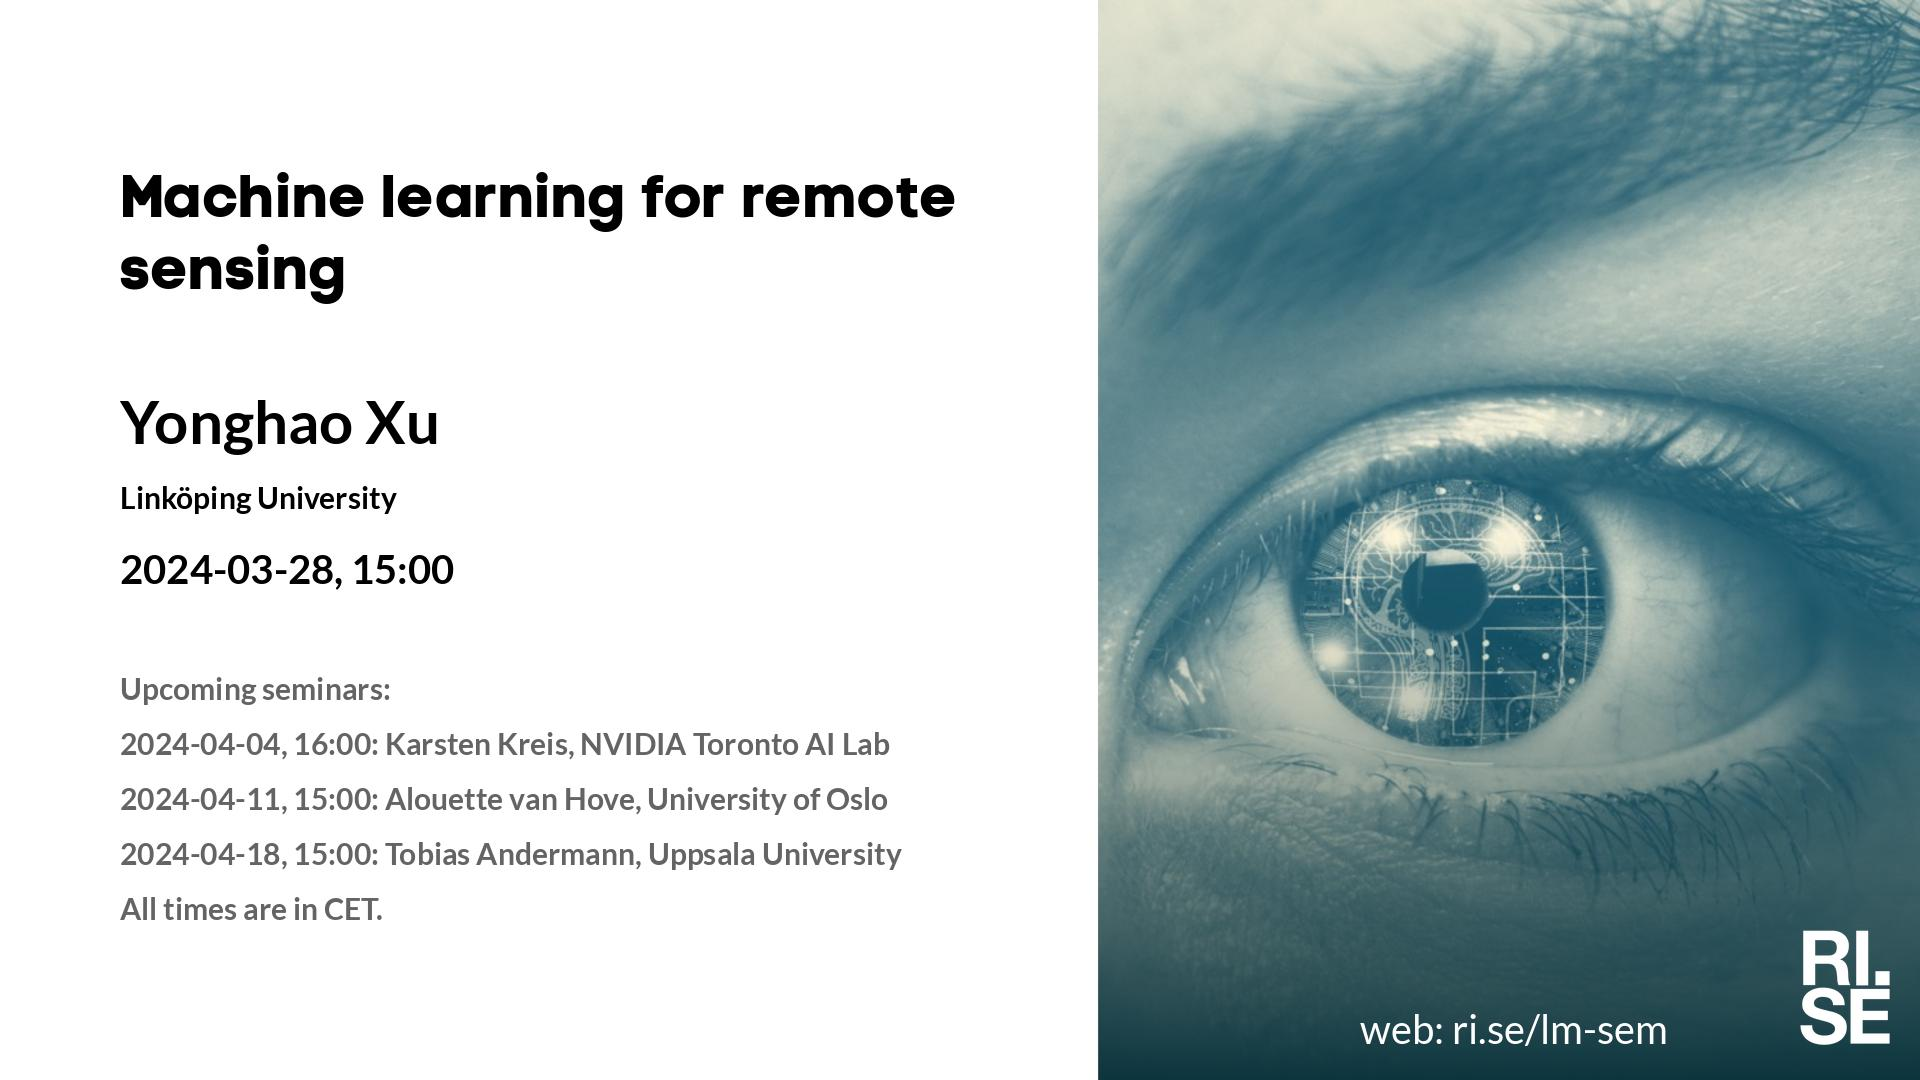
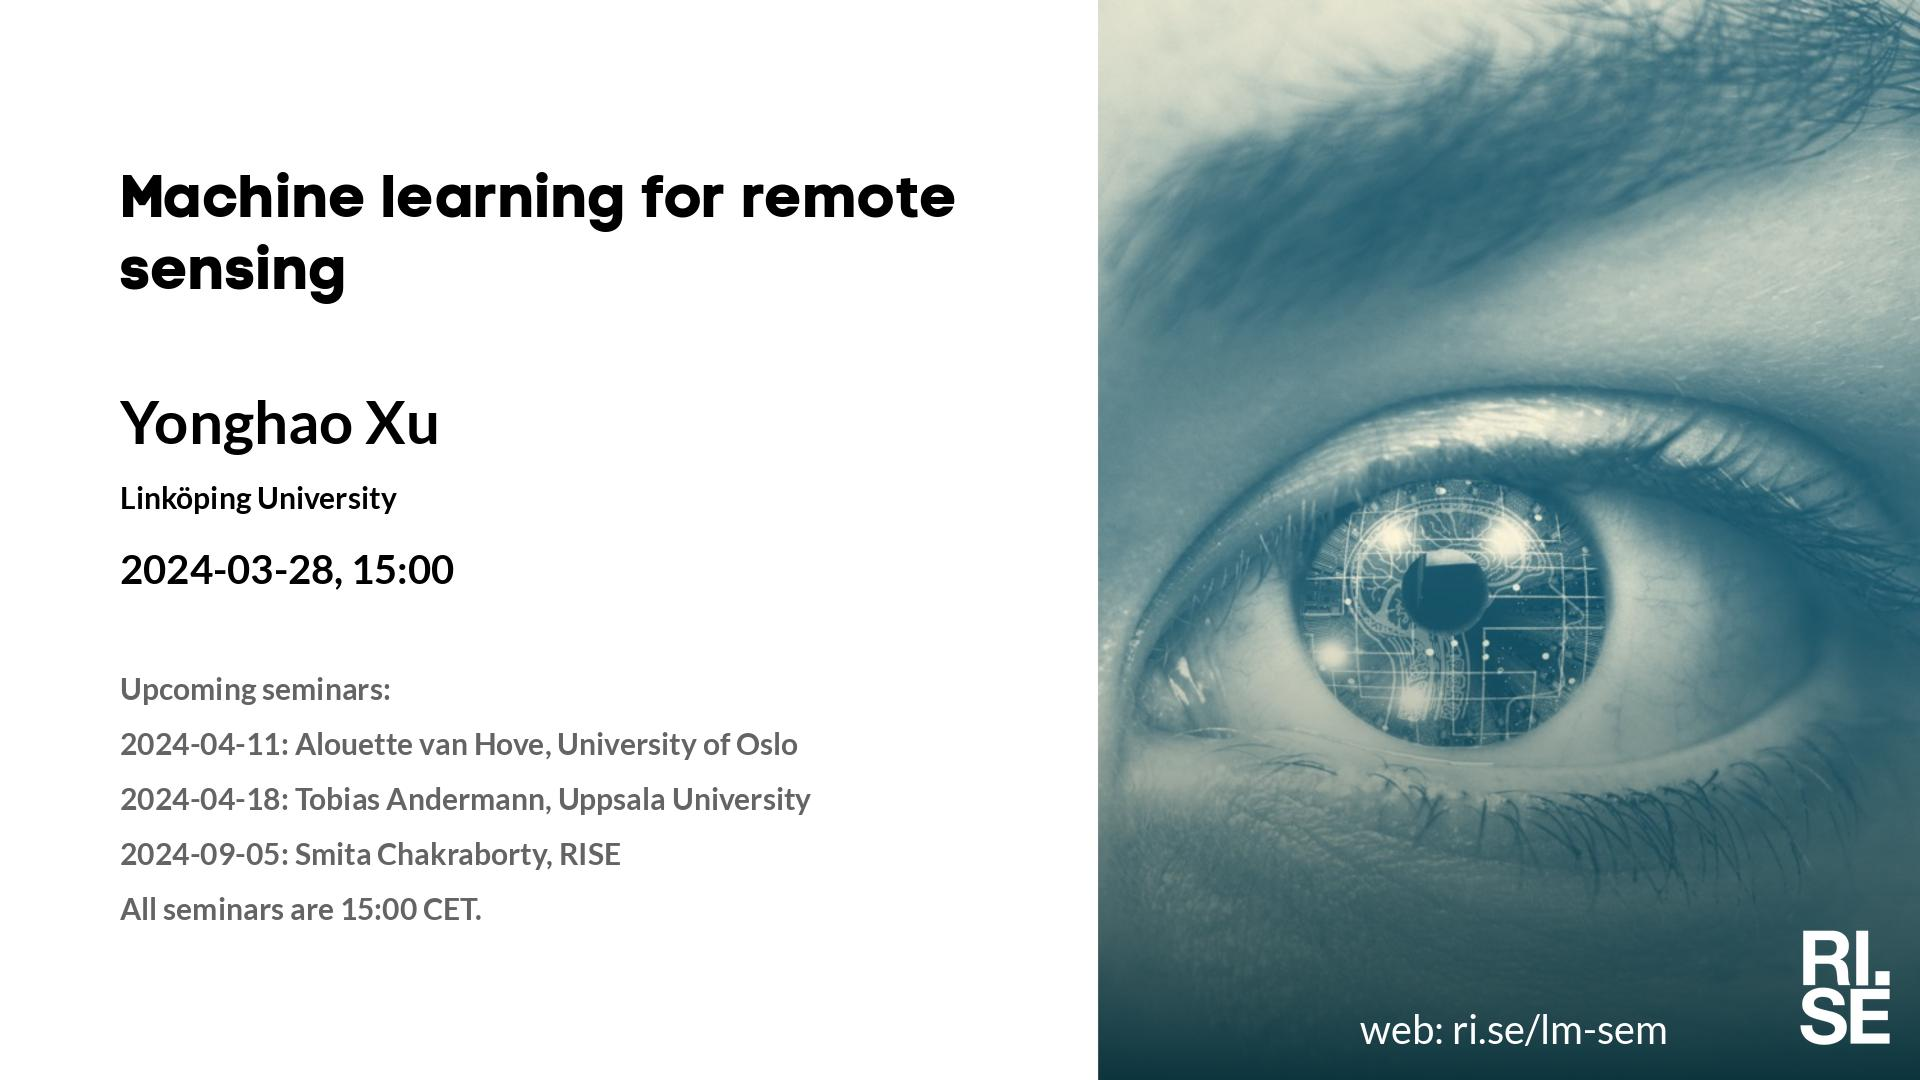
Updated plan on web site.

Changed region(s): [[0.0938, 0.7333, 0.4688, 0.8556], [0.125, 0.6722, 0.4688, 0.7028]]

diff --git a/lm/index.md b/lm/index.md
@@ -5,15 +5,13 @@ metatags: "<meta name=\"robots\" content=\"noindex,nofollow\" />"
 <style type="text/css" scoped>
 td, th {border: 1px solid #ccc; padding: 0.6em;}
 table {border-collapse: collapse;}
-</style># Learning Machines Plan 2024-03-23
+</style># Learning Machines Plan 2024-03-27
 
 | date | speaker                                   | photo | shareable | meeting backdrop | youtube thumbnail | <a title="Speaker, Title, Abstract, Bio, Photo. Strikethrough means we don't have it yet.">comment</a>        |
 | ---- | ----------------------------------------- | ----- | ----- | ----- | ----- | -------------- |
-| <span style="color:red"> 2024-03-07 </span> | <span style="color:red"> *Up for grabs!!!* </span> | <span style="color:red">  </span> | <span style="color:red">  </span> | <span style="color:red">  </span> | <span style="color:red">  </span> | <span style="color:red"> CANCELLED </span> |
 |  2024-03-14  |  [Santiago Martinez Balvanera, University College London](2024-03-14.md)  |  [photo](photo-santiago-martinez-balvanera.jpg)  |  [social media ](social-media-santiago-martinez-balvanera.jpg)  |  [meeting backdrop ](meeting-backdrop-santiago-martinez-balvanera.jpg)  |  [youtube thumbnail ](youtube-thumbnail-santiago-martinez-balvanera.jpg)  |  STABP  |
 |  2024-03-21  |  [Fredrik Gustafsson, Karolinska Institutet](2024-03-21.md)  |  [photo](photo-fredrik-gustafsson.jpg)  |  [social media ](social-media-fredrik-gustafsson.jpg)  |  [meeting backdrop ](meeting-backdrop-fredrik-gustafsson.jpg)  |  [youtube thumbnail ](youtube-thumbnail-fredrik-gustafsson.jpg)  |  STABP  |
 |  2024-03-28  |  [Yonghao Xu, Linköping University](2024-03-28.md)  |  [photo](photo-yonghao-xu.jpg)  |  [social media ](social-media-yonghao-xu.jpg)  |  [meeting backdrop ](meeting-backdrop-yonghao-xu.jpg)  |  [youtube thumbnail ](youtube-thumbnail-yonghao-xu.jpg)  |  STABP  |
-|  2024-04-04  |  [Karsten Kreis, NVIDIA Toronto AI Lab](2024-04-04.md)  |  [photo](photo-karsten-kreis.jpg)  |  [social media ](social-media-karsten-kreis.jpg)  |  [meeting backdrop ](meeting-backdrop-karsten-kreis.jpg)  |  [youtube thumbnail ](youtube-thumbnail-karsten-kreis.jpg)  |  S~~TAB~~P  |
 |  2024-04-11  |  [Alouette van Hove, University of Oslo](2024-04-11.md)  |    |  [social media ](social-media-alouette-van-hove.jpg)  |  [meeting backdrop ](meeting-backdrop-alouette-van-hove.jpg)  |  [youtube thumbnail ](youtube-thumbnail-alouette-van-hove.jpg)  |  S~~TABP~~  |
 |  2024-04-18  |  [Tobias Andermann, Uppsala University](2024-04-18.md)  |  [photo](photo-tobias-andermann.png)  |  [social media ](social-media-tobias-andermann.jpg)  |  [meeting backdrop ](meeting-backdrop-tobias-andermann.jpg)  |  [youtube thumbnail ](youtube-thumbnail-tobias-andermann.jpg)  |  STABP  |
 | <span style="color:grey"> 2024-04-25 </span> | <span style="color:grey"> Milena P. ? </span> | <span style="color:grey">  </span> | <span style="color:grey">  </span> | <span style="color:grey">  </span> | <span style="color:grey">  </span> | <span style="color:grey"> S~~TABP~~ </span> |

diff --git a/lm/2024-03-14.md b/lm/2024-03-14.md
@@ -22,11 +22,11 @@ In this talk I will explore key challenges encountered in developing machine lea
 
 **Upcoming seminars:**
 
-* 2024-03-21, 15:00: Fredrik Gustafsson, Karolinska Institutet
-* 2024-03-28, 15:00: Yonghao Xu, Linköping University
-* 2024-04-04, 16:00: Karsten Kreis, NVIDIA Toronto AI Lab
-* 2024-04-11, 15:00: Alouette van Hove, University of Oslo
-* All times are in CET.
+* 2024-03-21: Fredrik Gustafsson, Karolinska Institutet
+* 2024-03-28: Yonghao Xu, Linköping University
+* 2024-04-11: Alouette van Hove, University of Oslo
+* 2024-04-18: Tobias Andermann, Uppsala University
+* All seminars are 15:00 CET.
 
 More information and coming seminars: [https://ri.se/lm-sem](https://ri.se/lm-sem)
 

diff --git a/lm/2024-03-21.md b/lm/2024-03-21.md
@@ -24,11 +24,11 @@ We find that while methods are well calibrated when there is no distribution shi
 
 **Upcoming seminars:**
 
-* 2024-03-28, 15:00: Yonghao Xu, Linköping University
-* 2024-04-04, 16:00: Karsten Kreis, NVIDIA Toronto AI Lab
-* 2024-04-11, 15:00: Alouette van Hove, University of Oslo
-* 2024-04-18, 15:00: Tobias Andermann, Uppsala University
-* All times are in CET.
+* 2024-03-28: Yonghao Xu, Linköping University
+* 2024-04-11: Alouette van Hove, University of Oslo
+* 2024-04-18: Tobias Andermann, Uppsala University
+* 2024-09-05: Smita Chakraborty, RISE
+* All seminars are 15:00 CET.
 
 More information and coming seminars: [https://ri.se/lm-sem](https://ri.se/lm-sem)
 

diff --git a/lm/2024-03-28.md b/lm/2024-03-28.md
@@ -21,10 +21,10 @@ To begin, I will introduce a consistency-regularized region-growing network, whi
 
 **Upcoming seminars:**
 
-* 2024-04-04, 16:00: Karsten Kreis, NVIDIA Toronto AI Lab
-* 2024-04-11, 15:00: Alouette van Hove, University of Oslo
-* 2024-04-18, 15:00: Tobias Andermann, Uppsala University
-* All times are in CET.
+* 2024-04-11: Alouette van Hove, University of Oslo
+* 2024-04-18: Tobias Andermann, Uppsala University
+* 2024-09-05: Smita Chakraborty, RISE
+* All seminars are 15:00 CET.
 
 More information and coming seminars: [https://ri.se/lm-sem](https://ri.se/lm-sem)
 
